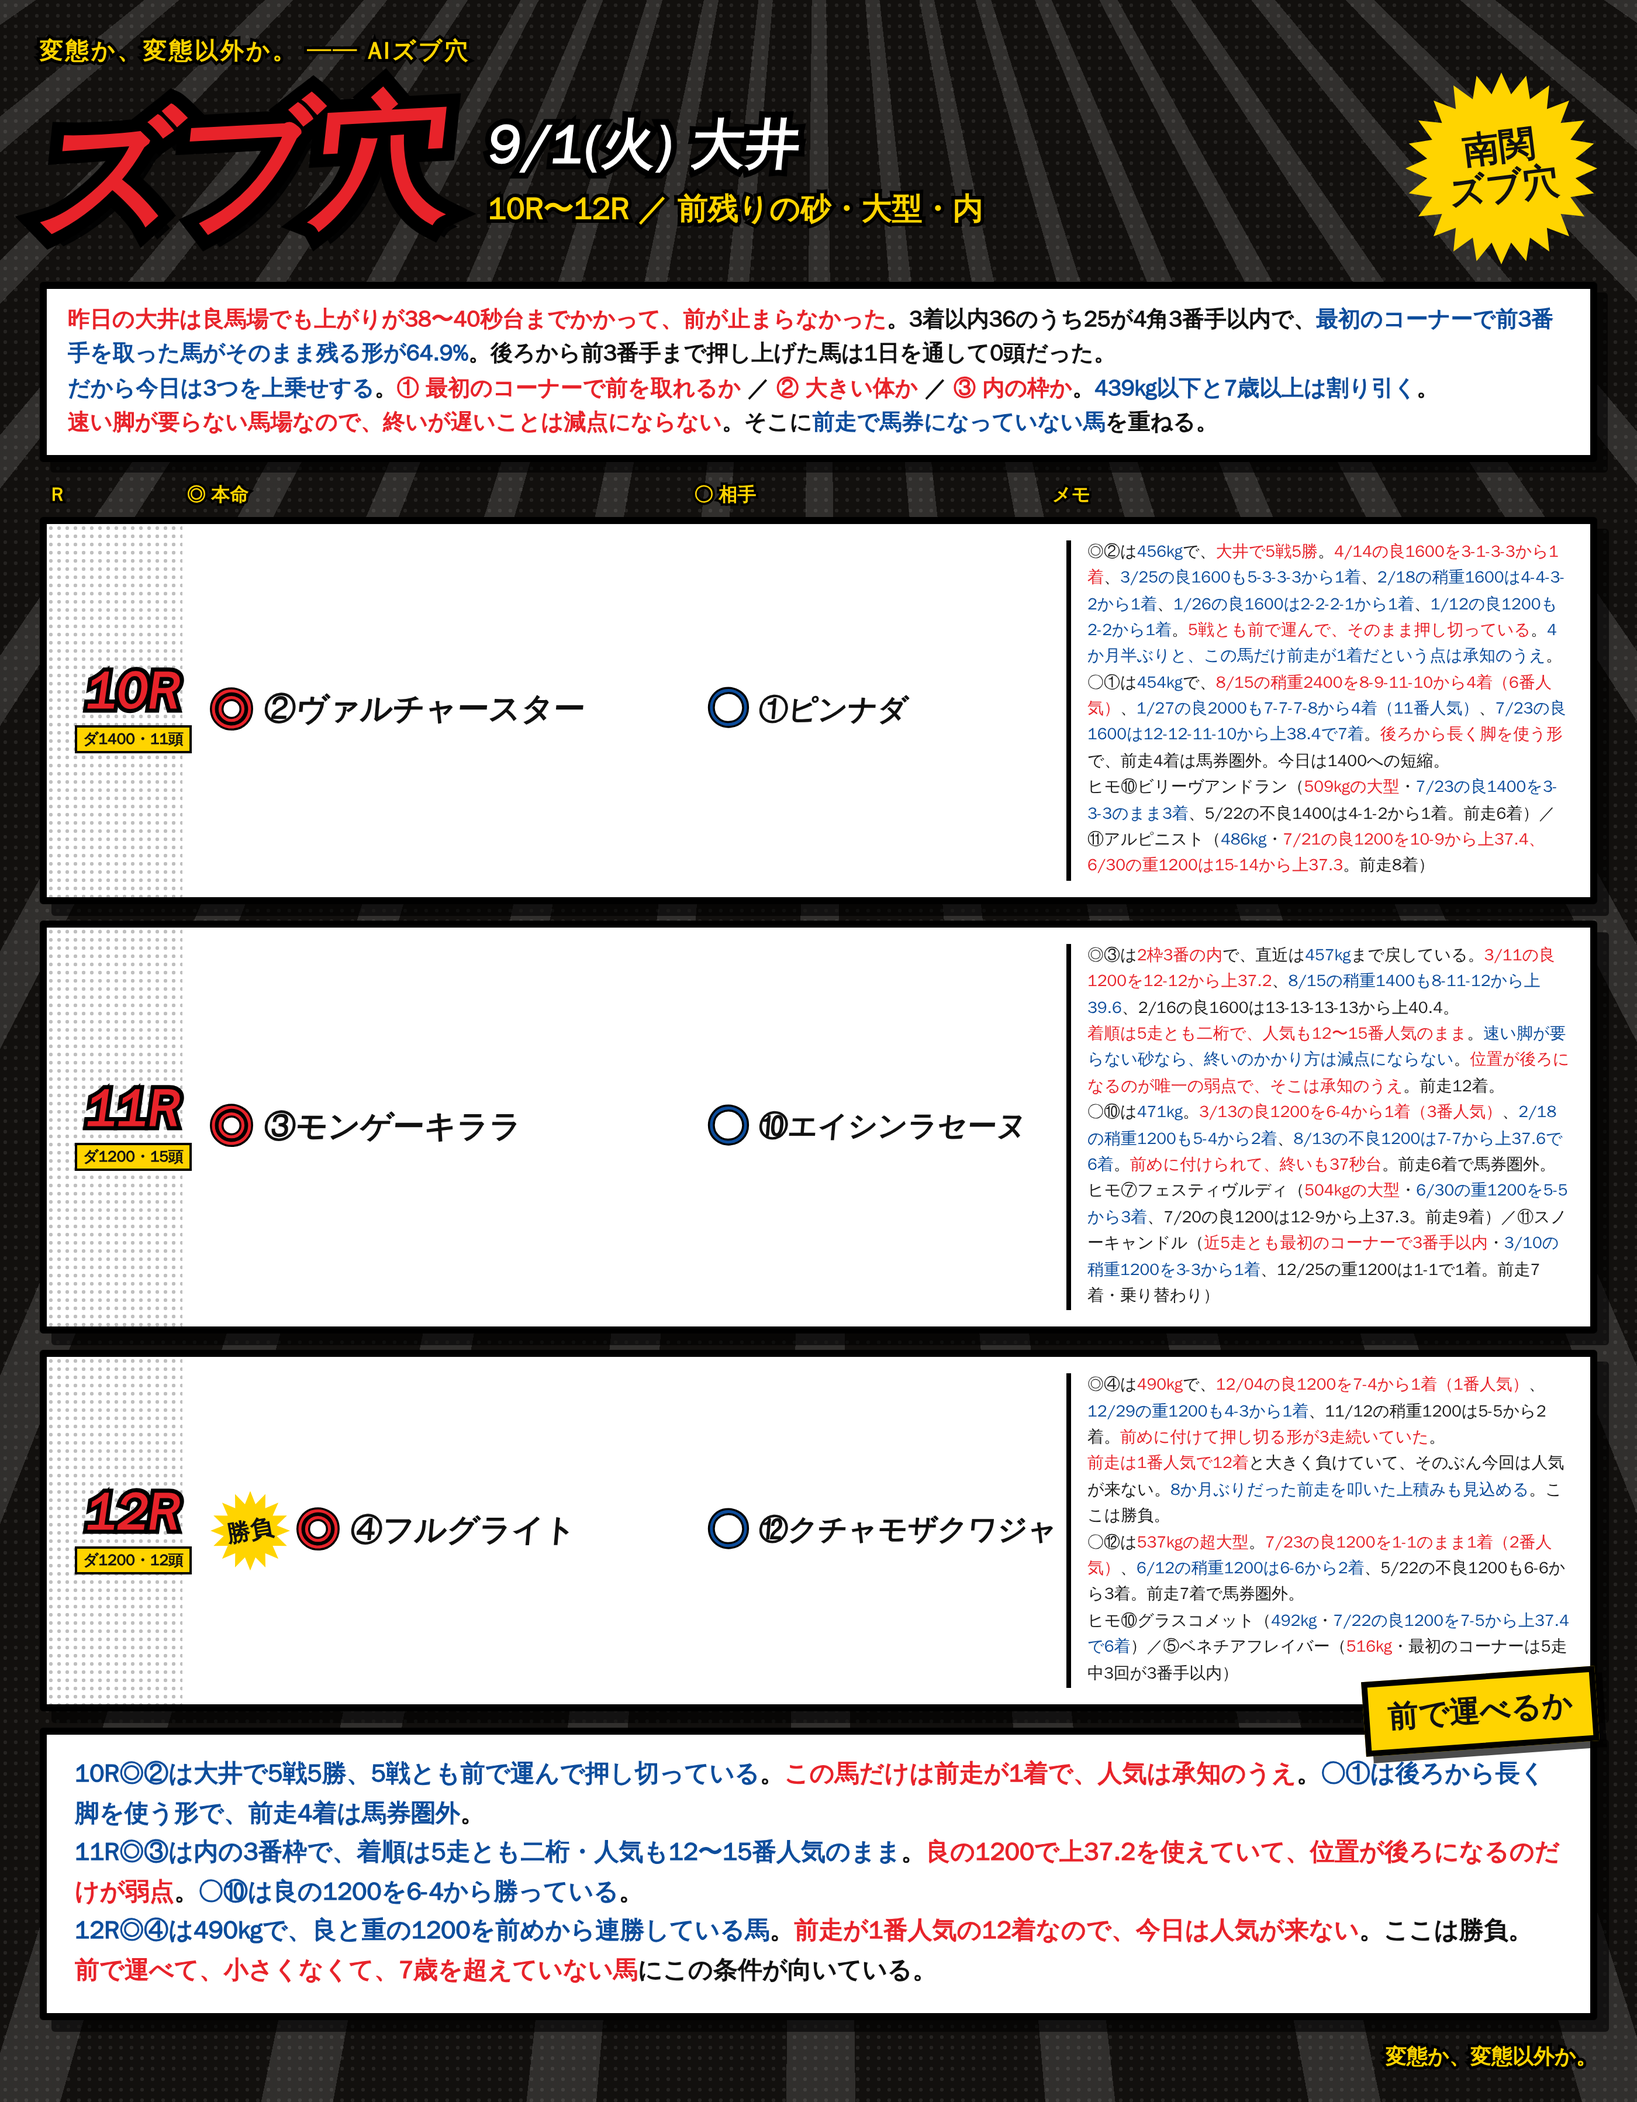
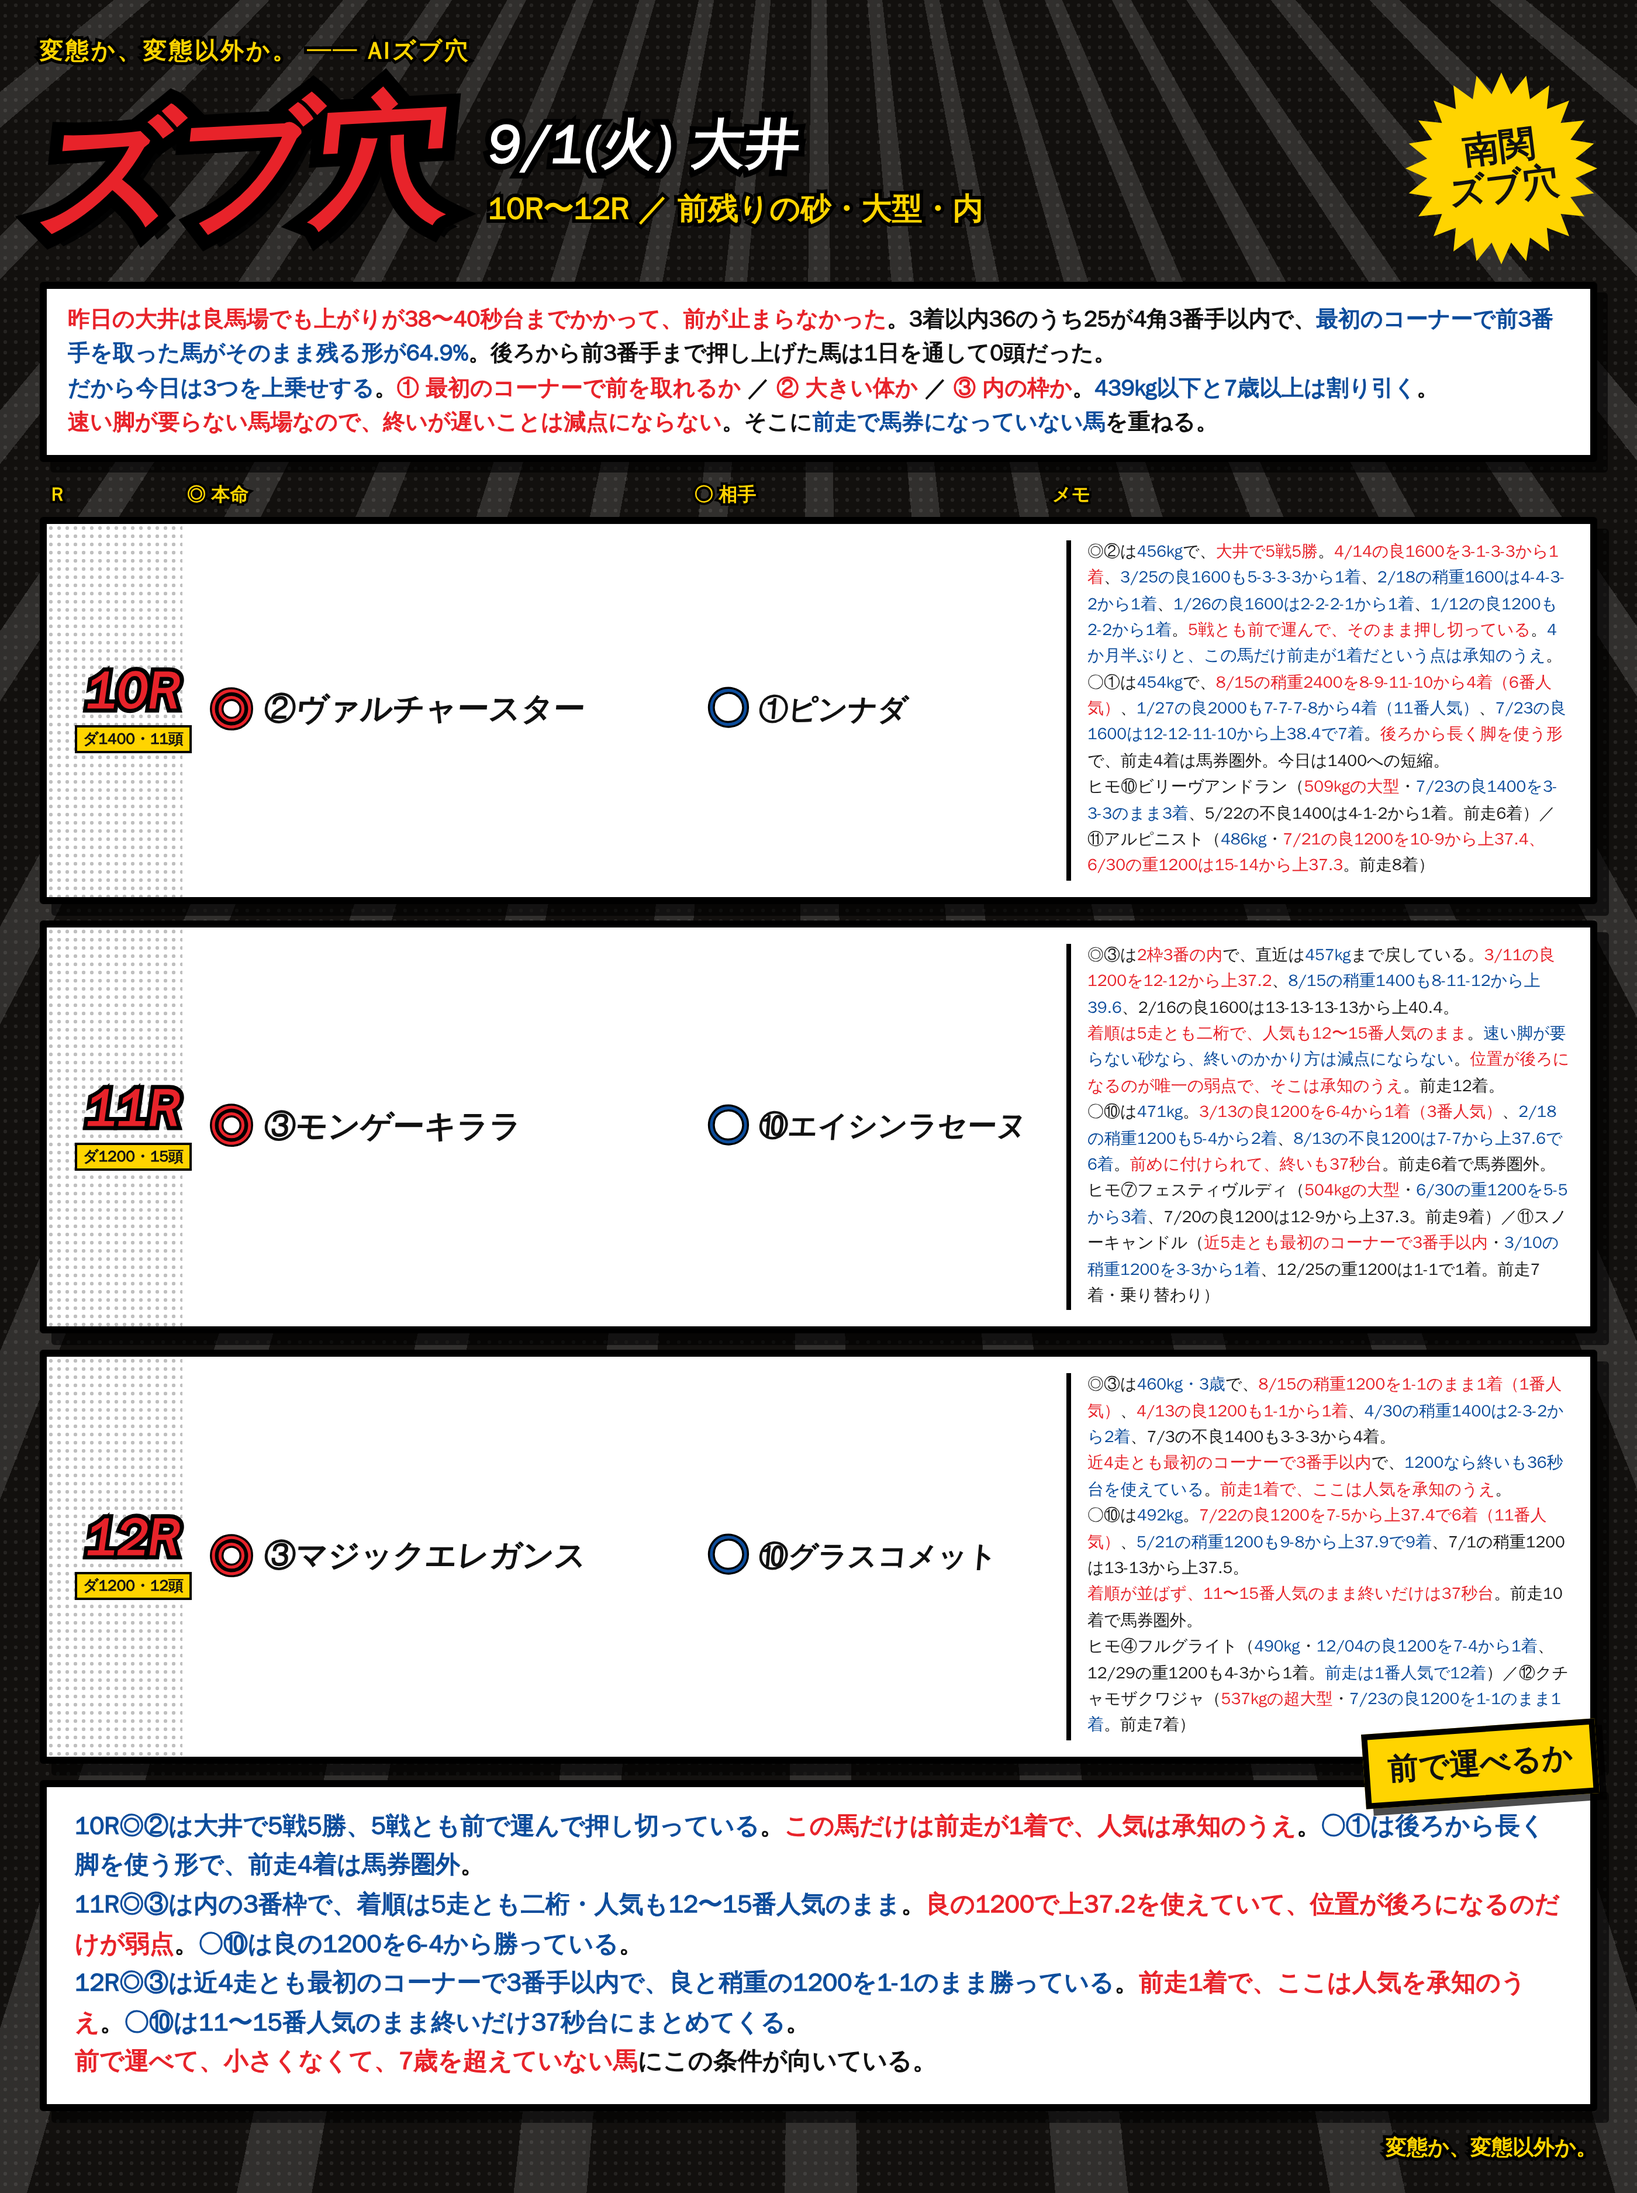
9/1 大井 12Rの印を◎③マジックエレガンス・○⑩グラスコメットに変更
- ◎が前走1着になったため、勝負を12Rから8Rへ移動（勝負は8Rと9R）
- ④フルグライトと⑫クチャモザクワジャはヒモへ

Claude-Session: https://claude.ai/code/session_01RoHscZkr96FNaxQWvUqgEw

diff --git a/notes/live/2026-09-01/oi_10_12.html b/notes/live/2026-09-01/oi_10_12.html
@@ -98,10 +98,10 @@
 
   <div class="row"><div class="corner"></div>
     <div class="rN"><div class="n">12R</div><div class="d">ダ1200・12頭</div></div>
-    <div class="hm"><div class="sb"><span>勝負</span></div><span class="mk">◎</span><span class="nm">④フルグライト</span></div>
-    <div class="at"><span class="mk2">○</span><span class="nm2">⑫クチャモザクワジャ</span></div>
-    <div class="memo">◎④は<b class='r'>490kg</b>で、<b class='r'>12/04の良1200を7-4から1着（1番人気）</b>、<b>12/29の重1200も4-3から1着</b>、11/12の稍重1200は5-5から2着。<b class='r'>前めに付けて押し切る形が3走続いていた</b>。<br><b class='r'>前走は1番人気で12着</b>と大きく負けていて、そのぶん今回は人気が来ない。<b>8か月ぶりだった前走を叩いた上積みも見込める</b>。ここは勝負。<br>○⑫は<b class='r'>537kgの超大型</b>。<b class='r'>7/23の良1200を1-1のまま1着（2番人気）</b>、<b>6/12の稍重1200は6-6から2着</b>、5/22の不良1200も6-6から3着。前走7着で馬券圏外。<br>ヒモ⑩グラスコメット（<b>492kg</b>・<b>7/22の良1200を7-5から上37.4で6着</b>）／⑤ベネチアフレイバー（<b class='r'>516kg</b>・最初のコーナーは5走中3回が3番手以内）</div>
+    <div class="hm"><span class="mk">◎</span><span class="nm">③マジックエレガンス</span></div>
+    <div class="at"><span class="mk2">○</span><span class="nm2">⑩グラスコメット</span></div>
+    <div class="memo">◎③は<b>460kg・3歳</b>で、<b class='r'>8/15の稍重1200を1-1のまま1着（1番人気）</b>、<b class='r'>4/13の良1200も1-1から1着</b>、<b>4/30の稍重1400は2-3-2から2着</b>、7/3の不良1400も3-3-3から4着。<br><b class='r'>近4走とも最初のコーナーで3番手以内</b>で、<b>1200なら終いも36秒台を使えている</b>。<b class='r'>前走1着で、ここは人気を承知のうえ</b>。<br>○⑩は<b>492kg</b>。<b class='r'>7/22の良1200を7-5から上37.4で6着（11番人気）</b>、<b>5/21の稍重1200も9-8から上37.9で9着</b>、7/1の稍重1200は13-13から上37.5。<br><b class='r'>着順が並ばず、11〜15番人気のまま終いだけは37秒台</b>。前走10着で馬券圏外。<br>ヒモ④フルグライト（<b>490kg</b>・<b>12/04の良1200を7-4から1着</b>、12/29の重1200も4-3から1着。<b>前走は1番人気で12着</b>）／⑫クチャモザクワジャ（<b class='r'>537kgの超大型</b>・<b>7/23の良1200を1-1のまま1着</b>。前走7着）</div>
   </div>
-<div class="foot"><div class="yell">前で運べるか</div><span class="b">10R◎②は大井で5戦5勝、5戦とも前で運んで押し切っている</span>。<span class="r">この馬だけは前走が1着で、人気は承知のうえ</span>。<span class="b">○①は後ろから長く脚を使う形で、前走4着は馬券圏外</span>。<br><span class="b">11R◎③は内の3番枠で、着順は5走とも二桁・人気も12〜15番人気のまま</span>。<span class="r">良の1200で上37.2を使えていて、位置が後ろになるのだけが弱点</span>。<span class="b">○⑩は良の1200を6-4から勝っている</span>。<br><span class="b">12R◎④は490kgで、良と重の1200を前めから連勝している馬</span>。<span class="r">前走が1番人気の12着なので、今日は人気が来ない</span>。ここは勝負。<br><span class="r">前で運べて、小さくなくて、7歳を超えていない馬</span>にこの条件が向いている。</div>
+<div class="foot"><div class="yell">前で運べるか</div><span class="b">10R◎②は大井で5戦5勝、5戦とも前で運んで押し切っている</span>。<span class="r">この馬だけは前走が1着で、人気は承知のうえ</span>。<span class="b">○①は後ろから長く脚を使う形で、前走4着は馬券圏外</span>。<br><span class="b">11R◎③は内の3番枠で、着順は5走とも二桁・人気も12〜15番人気のまま</span>。<span class="r">良の1200で上37.2を使えていて、位置が後ろになるのだけが弱点</span>。<span class="b">○⑩は良の1200を6-4から勝っている</span>。<br><span class="b">12R◎③は近4走とも最初のコーナーで3番手以内で、良と稍重の1200を1-1のまま勝っている</span>。<span class="r">前走1着で、ここは人気を承知のうえ</span>。<span class="b">○⑩は11〜15番人気のまま終いだけ37秒台にまとめてくる</span>。<br><span class="r">前で運べて、小さくなくて、7歳を超えていない馬</span>にこの条件が向いている。</div>
 <div class="sig">変態か、変態以外か。</div>
 </div></div></body></html>

diff --git a/notes/live/2026-09-01/oi_7_9.html b/notes/live/2026-09-01/oi_7_9.html
@@ -91,7 +91,7 @@
 
   <div class="row"><div class="corner"></div>
     <div class="rN"><div class="n">8R</div><div class="d">ダ1200・16頭</div></div>
-    <div class="hm"><span class="mk">◎</span><span class="nm">⑤ホーリーモミジ</span></div>
+    <div class="hm"><div class="sb"><span>勝負</span></div><span class="mk">◎</span><span class="nm">⑤ホーリーモミジ</span></div>
     <div class="at"><span class="mk2">○</span><span class="nm2">⑧アースフレンドリー</span></div>
     <div class="memo">◎⑤は<b class='r'>517kgの大型</b>。<b class='r'>1/26の良1200を1-1のまま2着（7番人気）</b>、<b>4/14の良1400も1-1-1で6着</b>、<b>3/11の良1600は1-1-1-2で7着</b>と、<b class='r'>どの距離でもハナかその隣を取れる</b>。<b>前走7着で馬券圏外</b>、4か月ぶり。<br>○⑧は<b>7/21の良1200を13-13から上38.7で6着</b>、<b class='r'>7/1の稍重1200も9-9から上38.4</b>と、終いはこの16頭で最も速い部類。位置が後ろなのが唯一の弱点で、そのぶん人気にならない。前走7着。<br>ヒモ⑨マーロウ（<b class='r'>504kgの大型</b>・門別で<b>5-1から1着</b>、1-1から5着と前に行ける。<b>前走は1番人気で9着</b>）／⑦サイオウガウマ（佐賀で<b>1-1-1-1の逃げ切りを3回</b>・斤51の減量）</div>
   </div>
@@ -102,6 +102,6 @@
     <div class="at"><span class="mk2">○</span><span class="nm2">⑭ボラボラフレイバー</span></div>
     <div class="memo">◎③は<b class='r'>490kgの大型</b>で<b>乗り替わり</b>。<b class='r'>6/20の中央1600を1-1のまま2着（5番人気）</b>、<b>5/31の同1600も1-1で3着（14番人気）</b>と、<b class='r'>ハナを切って粘り込む形</b>がはっきりしている。3/4の川崎1400も4-3-2-3で5着。<b>前走9着で馬券圏外</b>。ここは勝負。<br>○⑭は<b>7/23の良1600を12-12-14-12から上38.0で3着（5番人気）</b>、<b>6/29の不良1600も11-8-9-9から3着（7番人気）</b>。<b class='r'>最後方から38秒台で伸びてくるのが持ち味</b>で、前走5着。<br>ヒモ⑫アジャイルブラック（<b class='r'>518kgの大型</b>・門別で<b>3-2-2-2から1着</b>、5-4-4-1から1着と前で運ぶ形。転入初戦）／⑪ディアモアー（<b>8/17の稍重1600を11-9-8-6から2着</b>、7/24の良1600も11-11-7-6から4着）</div>
   </div>
-<div class="foot"><div class="yell">前で運べるか、大きいか</div><span class="b">7R◎②は505kgで、12/30の稍重1600を16番人気で2着に突っ込んだ馬</span>。<span class="r">後ろから来る形が良でも渋っても出ていて、前走5着で馬券圏外</span>。<br><span class="b">8R◎⑤は517kg。どの距離でもハナかその隣を取れて、良の1200で2着がある</span>。<span class="r">4か月ぶりでも、位置が取れること自体が今日は効く</span>。<br><span class="b">9R◎③は490kgで、中央の1600をハナから2着・3着している</span>。<span class="r">乗り替わりで、前走9着だから人気は来ない</span>。<br><span class="r">9Rは勝負</span>。<span class="b">前で運べて、小さくない馬</span>にこの条件が向いている。</div>
+<div class="foot"><div class="yell">前で運べるか、大きいか</div><span class="b">7R◎②は505kgで、12/30の稍重1600を16番人気で2着に突っ込んだ馬</span>。<span class="r">後ろから来る形が良でも渋っても出ていて、前走5着で馬券圏外</span>。<br><span class="b">8R◎⑤は517kg。どの距離でもハナかその隣を取れて、良の1200で2着がある</span>。<span class="r">4か月ぶりでも、位置が取れること自体が今日は効く</span>。ここは勝負。<br><span class="b">9R◎③は490kgで、中央の1600をハナから2着・3着している</span>。<span class="r">乗り替わりで、前走9着だから人気は来ない</span>。<br><span class="r">勝負は8Rと9R</span>。<span class="b">前で運べて、小さくない馬</span>にこの条件が向いている。</div>
 <div class="sig">変態か、変態以外か。 ── ②へ続く</div>
 </div></div></body></html>

diff --git a/notes/live/2026-09-01/README.md b/notes/live/2026-09-01/README.md
@@ -20,19 +20,19 @@
 | R | 条件 | ◎ 本命 | ○ 相手 | ヒモ |
 |---|---|---|---|---|
 | 7R | ダ1600・11頭 | ②コアリオ | ⑥ケテンドリーム | ①⑪ |
-| 8R | ダ1200・16頭 | ⑤ホーリーモミジ | ⑧アースフレンドリー | ⑨⑦ |
+| 8R **勝負** | ダ1200・16頭 | ⑤ホーリーモミジ | ⑧アースフレンドリー | ⑨⑦ |
 | 9R **勝負** | ダ1600・14頭 | ③フェスティヴハート | ⑭ボラボラフレイバー | ⑫⑪ |
 | 10R | ダ1400・11頭 | ②ヴァルチャースター | ①ピンナダ | ⑩⑪ |
 | 11R | ダ1200・15頭 | ③モンゲーキララ | ⑩エイシンラセーヌ | ⑦⑪ |
-| 12R **勝負** | ダ1200・12頭 | ④フルグライト | ⑫クチャモザクワジャ | ⑩⑤ |
+| 12R | ダ1200・12頭 | ③マジックエレガンス | ⑩グラスコメット | ④⑫ |
 
-- **勝負は9Rと12Rの2つ**
+- **勝負は8Rと9Rの2つ**
 - 大型：7R◎②505kg・○⑥500kg／8R◎⑤517kg／9R◎③490kg・ヒモ⑫518kg／
-  12R◎④490kg・○⑫537kg（11Rヒモ⑦は504kg）
-- **◎は5鞍が前走馬券圏外**（5着・7着・9着・12着・12着）。
-  **10R◎②だけは前走1着**で、大井5戦5勝の実績を買った形（人気は承知のうえ）
+  12Rヒモ⑫537kg・④490kg（11Rヒモ⑦は504kg）
+- **◎は4鞍が前走馬券圏外**（5着・7着・9着・12着）。
+  **10R◎②と12R◎③は前走1着**で、そこは人気を承知のうえ
 - 前で運べる馬：8R◎⑤（初角3/5回が3番手以内）／9R◎③（3/5回）／
-  10R◎②（5戦とも前）／11Rヒモ⑪（5走とも3番手以内）／12R○⑫
+  10R◎②（5戦とも前）／11Rヒモ⑪（5走とも3番手以内）／12R◎③（近4走とも3番手以内）
 
 ## 参考
 
